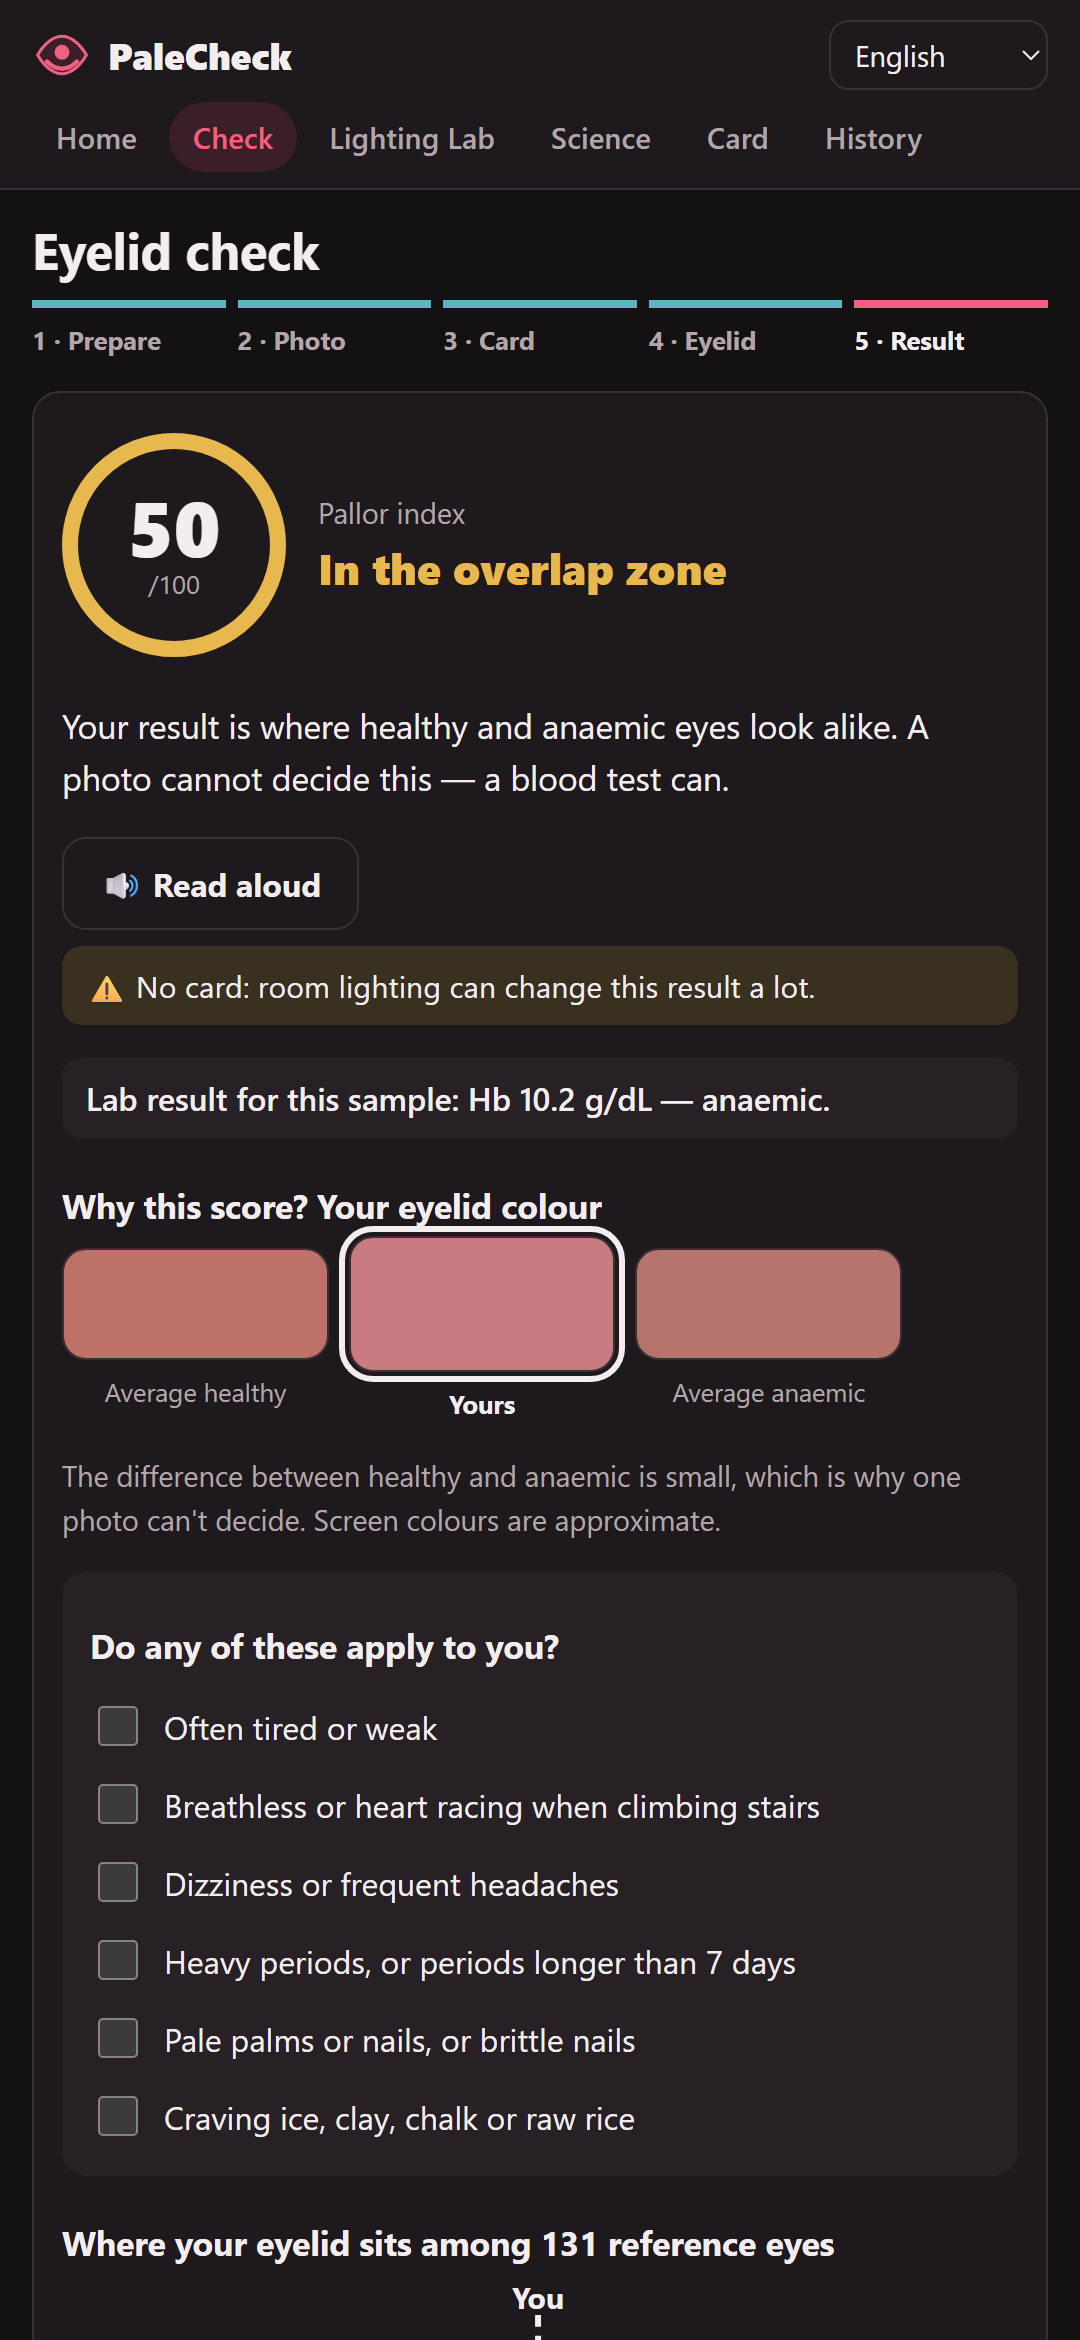
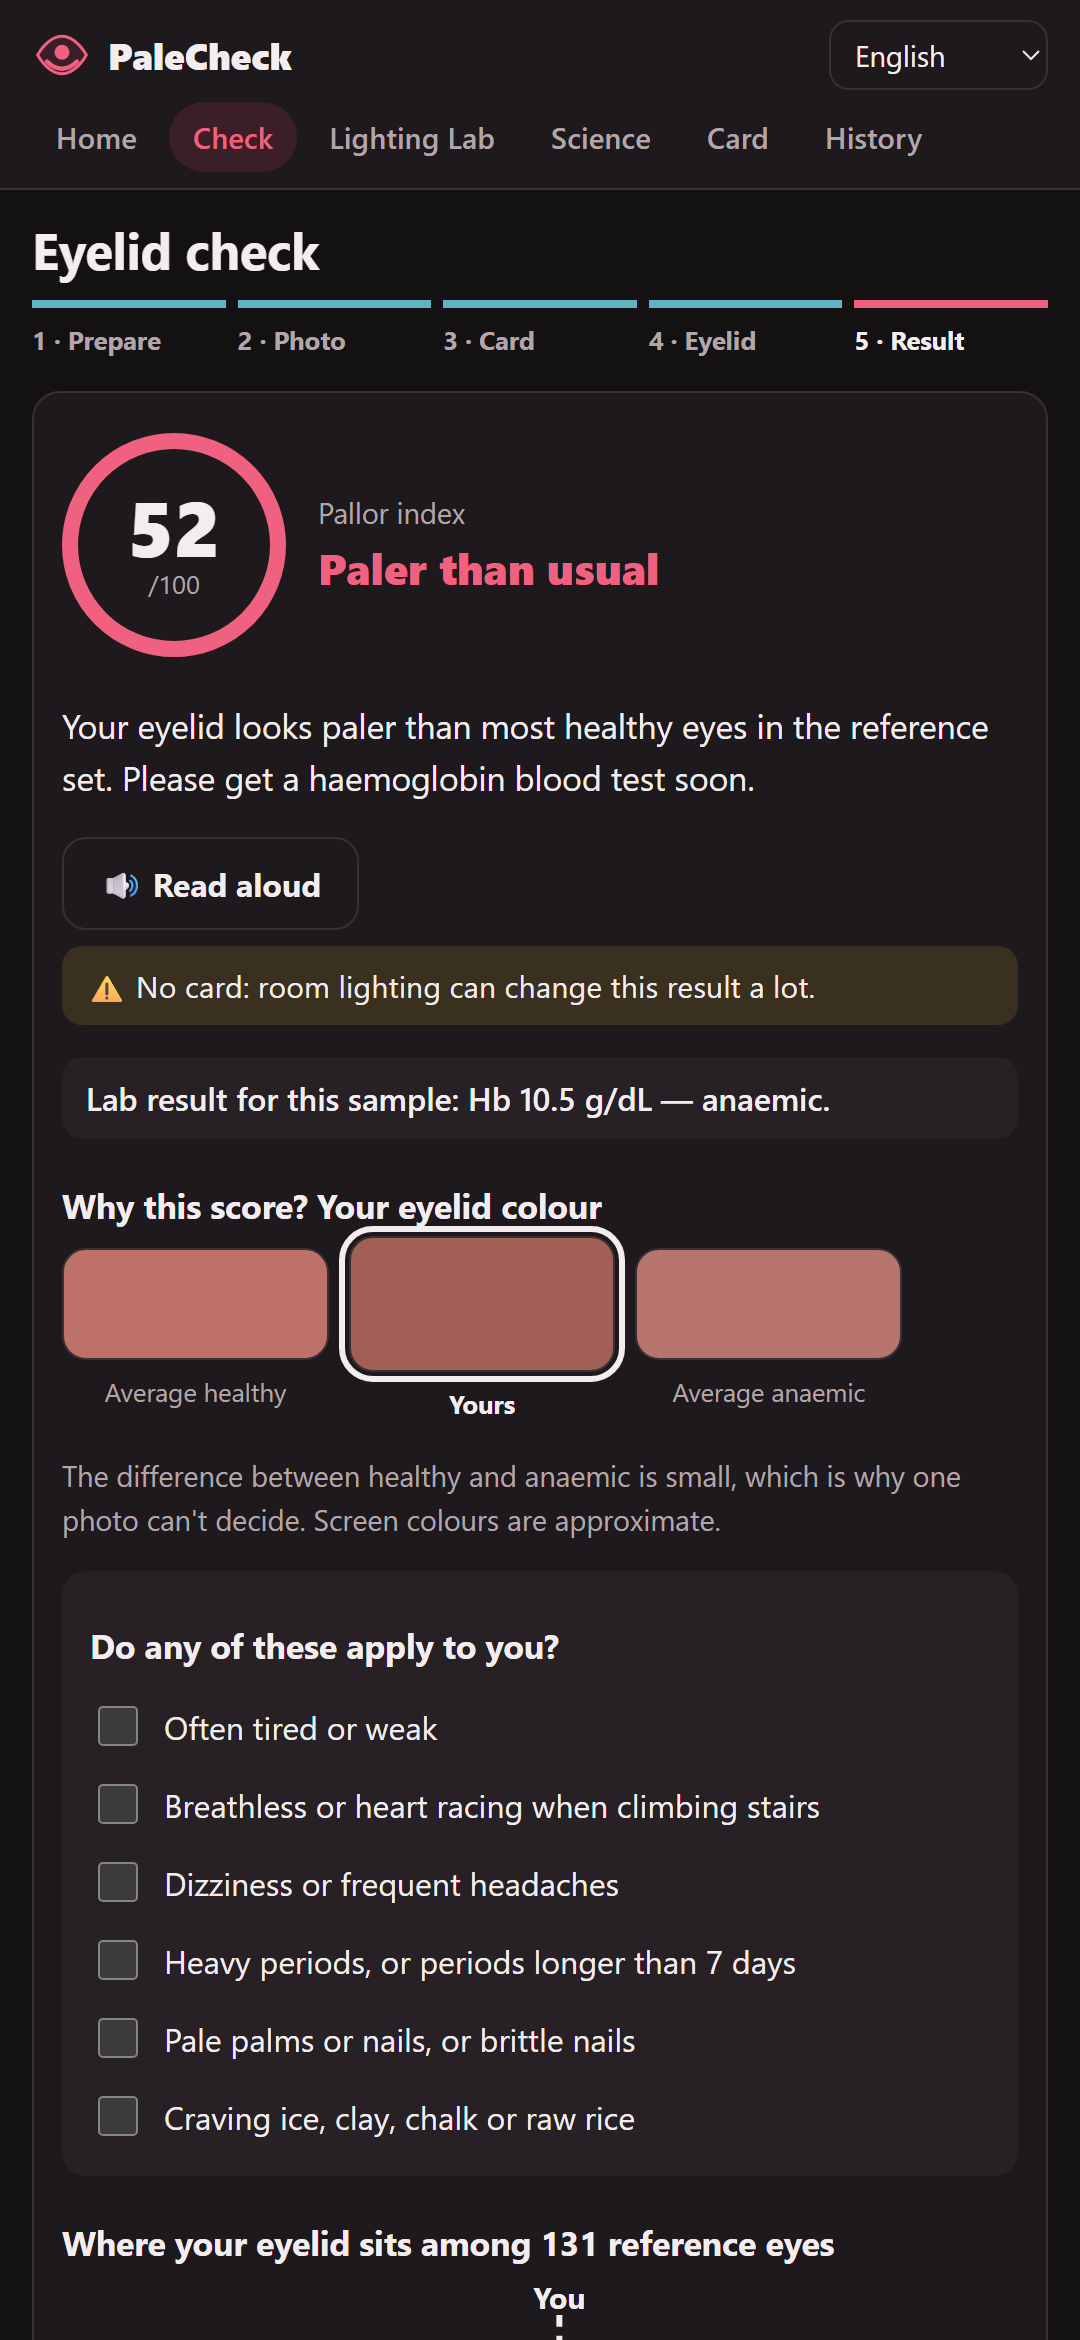
Point the judges' demo link at sample 4
With the final demo hold-out, sample 4 is the one that crosses into "paler
than usual" (anaemic, Hb 10.5). The home page still picks a random sample.

diff --git a/docs/devpost-submission.md b/docs/devpost-submission.md
@@ -2,7 +2,7 @@
 
 **Track:** Coding · **Category:** Biology/Medical and Environmental Science
 **Live app:** https://palecheck.zetalabs.in
-**For judges:** one-tap demo https://palecheck.zetalabs.in/check?sample=2 · Benchmark Lab https://palecheck.zetalabs.in/benchmark?run=1 · report https://palecheck.zetalabs.in/palecheck-report.pdf
+**For judges:** one-tap demo https://palecheck.zetalabs.in/check?sample=4 (samples 1–8 all work; most land in the overlap zone, which is the honest point) · Benchmark Lab https://palecheck.zetalabs.in/benchmark?run=1 · report https://palecheck.zetalabs.in/palecheck-report.pdf
 **Code:** https://github.com/d3osaju/palecheck (make it public before submitting)
 
 **Tagline (≤ 200 chars):**

diff --git a/README.md b/README.md
@@ -3,7 +3,7 @@
 [![ci](https://github.com/d3osaju/palecheck/actions/workflows/ci.yml/badge.svg)](https://github.com/d3osaju/palecheck/actions/workflows/ci.yml)
 
 **A phone, a ₹1 printed card, and an honest look at eyelid pallor.** Live: **https://palecheck.zetalabs.in**
-· One-tap demo: [/check?sample=2](https://palecheck.zetalabs.in/check?sample=2)
+· One-tap demo: [/check?sample=4](https://palecheck.zetalabs.in/check?sample=4)
 · Benchmark Lab: [/benchmark?run=1](https://palecheck.zetalabs.in/benchmark?run=1)
 · Technical report: [PDF](https://palecheck.zetalabs.in/palecheck-report.pdf)
 
